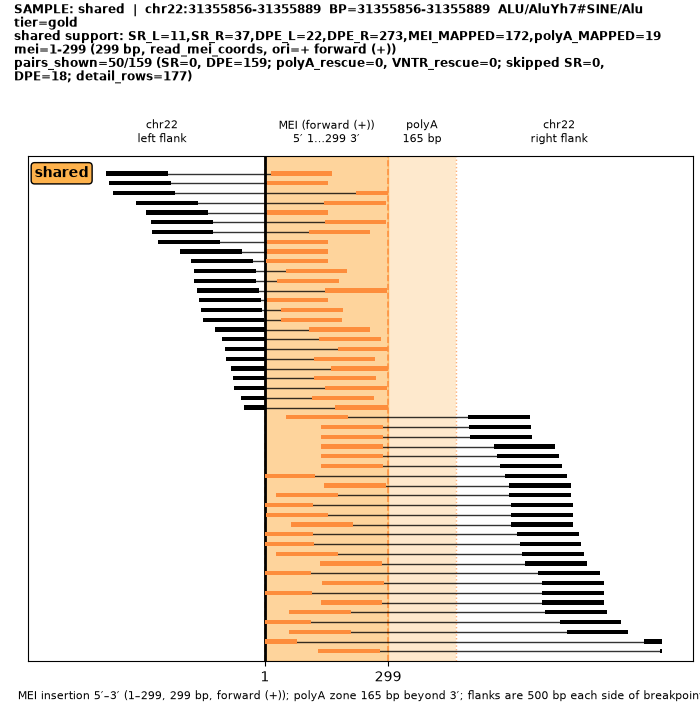
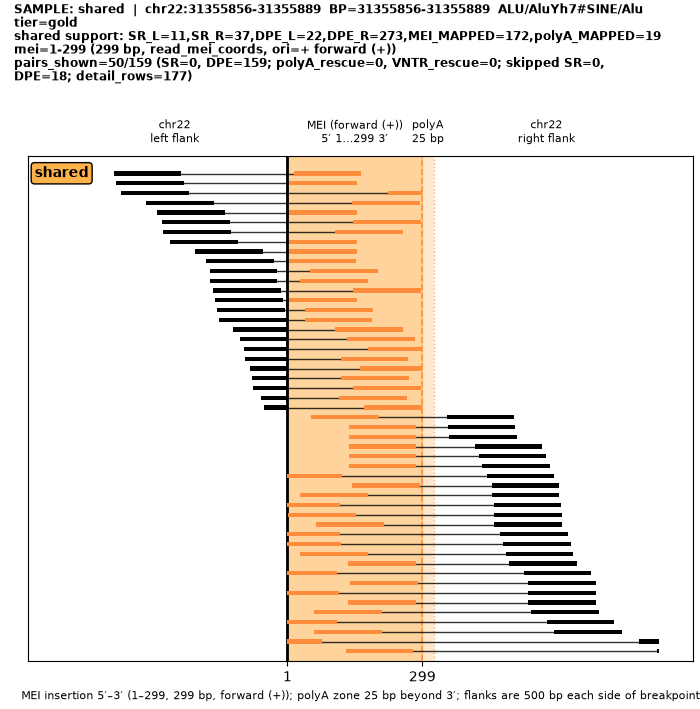
Fix read-architecture polyA zones inflated by raw mate_seq_len.
Only count purity-checked or polyA-rescue mate widths (and gold
consensus_poly_at_min_bp), and refresh the README L1/SVA/Alu example plots.

diff --git a/src/retro_miner/read_architecture.py b/src/retro_miner/read_architecture.py
@@ -330,11 +330,61 @@ def _mei_coords_from_detail(
     return min(coords), max(coords)
 
 
-def _max_polya_zone_bp(detail: pd.DataFrame | None) -> int:
+def _mate_polya_width_bp(row: pd.Series) -> int:
+    """Observed polyA/T width for a mate — never raw mate_seq_len alone.
+
+    Prefer purity-checked ``mate_seq``, then imputed polyA rescue spans.
+    ``mate_seq_len`` is only a fallback when the row is explicitly a polyA
+    rescue (annotate already required a mostly-A/T mate).
+    """
+    mate_seq = str(row.get("mate_seq", "") or "")
+    if len(mate_seq) >= 12:
+        s = mate_seq.upper()
+        n_a = s.count("A")
+        n_t = s.count("T")
+        dom = max(n_a, n_t)
+        if dom / float(len(s)) >= 0.90:
+            return int(min(_MAX_POLYA_SINGLE_BP, len(s)))
+    for start_col, end_col in (("mate_mei_start", "mate_mei_end"), ("mei_start", "mei_end")):
+        if start_col not in row.index or end_col not in row.index:
+            continue
+        try:
+            start = int(float(row.get(start_col) or 0))
+            end = int(float(row.get(end_col) or 0))
+        except (TypeError, ValueError):
+            continue
+        if start > 0 and end >= start:
+            # Only trust synthetic/imputed spans on polyA-rescue rows.
+            is_rescue = bool(row.get("polya_rescue", False)) or str(
+                row.get("mei_hit_source", "") or ""
+            ).strip().lower() in {"polya_rescue", "poly_tail_rescue"}
+            if is_rescue:
+                return int(max(0, min(_MAX_POLYA_SINGLE_BP, end - start + 1)))
+    is_rescue = bool(row.get("polya_rescue", False)) or str(
+        row.get("mei_hit_source", "") or ""
+    ).strip().lower() in {"polya_rescue", "poly_tail_rescue"}
+    if is_rescue and "mate_seq_len" in row.index:
+        try:
+            n = int(float(row.get("mate_seq_len") or 0))
+        except (TypeError, ValueError):
+            n = 0
+        if n >= 12:
+            return int(min(_MAX_POLYA_SINGLE_BP, n))
+    return 0
+
+
+def _max_polya_zone_bp(
+    detail: pd.DataFrame | None,
+    *,
+    consensus_poly_at_min_bp: int = 0,
+) -> int:
     """Width of the dedicated polyA zone = longest observed polyA/T support."""
-    if detail is None or detail.empty:
-        return 0
     widths: list[int] = []
+    gold = int(consensus_poly_at_min_bp or 0)
+    if gold >= 8:
+        widths.append(gold)
+    if detail is None or detail.empty:
+        return int(max(0, min(_MAX_POLYA_COMBINED_BP, max(widths)))) if widths else 0
 
     def _add_span_widths(frame: pd.DataFrame) -> None:
         for start_col, end_col in (("mate_mei_start", "mate_mei_end"), ("mei_start", "mei_end")):
@@ -349,17 +399,17 @@ def _max_polya_zone_bp(detail: pd.DataFrame | None) -> int:
     if "polya_rescue" in detail.columns:
         resc = detail.loc[detail["polya_rescue"].fillna(False).astype(bool)]
         if not resc.empty:
-            if "mate_seq_len" in resc.columns:
-                lens = pd.to_numeric(resc["mate_seq_len"], errors="coerce").fillna(0).astype(int)
-                widths.extend(int(v) for v in lens.tolist() if int(v) >= 12)
+            # Use imputed polyA spans / purity-checked mate width — not raw mate_seq_len
+            # on non-rescue MEI mates (that inflated zones to ~clip+151).
+            widths.extend(int(v) for v in resc.apply(_mate_polya_width_bp, axis=1).tolist() if int(v) >= 12)
             _add_span_widths(resc)
     if "mei_hit_source" in detail.columns:
         src = detail["mei_hit_source"].fillna("").astype(str)
         poly_src = detail.loc[src.eq("polya_rescue")]
         if not poly_src.empty:
-            if "mate_seq_len" in poly_src.columns:
-                lens = pd.to_numeric(poly_src["mate_seq_len"], errors="coerce").fillna(0).astype(int)
-                widths.extend(int(v) for v in lens.tolist() if int(v) >= 12)
+            widths.extend(
+                int(v) for v in poly_src.apply(_mate_polya_width_bp, axis=1).tolist() if int(v) >= 12
+            )
             _add_span_widths(poly_src)
     if "polya_base" in detail.columns:
         poly_base = detail.loc[detail["polya_base"].fillna("").astype(str).isin({"A", "T", "a", "t"})]
@@ -367,9 +417,9 @@ def _max_polya_zone_bp(detail: pd.DataFrame | None) -> int:
             if "clip_len" in poly_base.columns:
                 cl = pd.to_numeric(poly_base["clip_len"], errors="coerce").fillna(0).astype(int)
                 widths.extend(int(v) for v in cl.tolist() if int(v) >= 12)
-            if "mate_seq_len" in poly_base.columns:
-                lens = pd.to_numeric(poly_base["mate_seq_len"], errors="coerce").fillna(0).astype(int)
-                widths.extend(int(v) for v in lens.tolist() if int(v) >= 12)
+            widths.extend(
+                int(v) for v in poly_base.apply(_mate_polya_width_bp, axis=1).tolist() if int(v) >= 12
+            )
     if "poly_tail_rescued" in detail.columns:
         rescued = detail.loc[detail["poly_tail_rescued"].fillna(False).astype(bool)]
         if not rescued.empty and "clip_len" in rescued.columns:
@@ -390,23 +440,23 @@ def _max_polya_zone_bp(detail: pd.DataFrame | None) -> int:
         if "soft_clip_len" in anc.columns:
             cl = pd.to_numeric(anc["soft_clip_len"], errors="coerce").fillna(0).astype(int)
             widths.extend(int(v) for v in cl.tolist() if int(v) >= 8)
-        # Same DPE: junction polyA clip + polyA mate → minimum tail ≈ sum.
-        if "mate_seq_len" in anc.columns:
-            mate_lens = pd.to_numeric(anc["mate_seq_len"], errors="coerce").fillna(0).astype(int)
-            clip_lens = (
-                pd.to_numeric(anc["soft_clip_len"], errors="coerce").fillna(0).astype(int)
-                if "soft_clip_len" in anc.columns
-                else pd.Series(0, index=anc.index)
-            )
-            run_lens = (
-                pd.to_numeric(anc["anchor_poly_at_run"], errors="coerce").fillna(0).astype(int)
-                if "anchor_poly_at_run" in anc.columns
-                else pd.Series(0, index=anc.index)
-            )
-            anchor_w = clip_lens.combine(run_lens, max)
-            for aw, mw in zip(anchor_w.tolist(), mate_lens.tolist()):
-                if int(aw) >= 8 and int(mw) >= 12:
-                    widths.append(int(aw) + int(mw))
+        # Same DPE: junction polyA clip + polyA mate → sum only when mate is
+        # actually polyA (rescue / purity), never raw mate_seq_len of MEI mates.
+        clip_lens = (
+            pd.to_numeric(anc["soft_clip_len"], errors="coerce").fillna(0).astype(int)
+            if "soft_clip_len" in anc.columns
+            else pd.Series(0, index=anc.index)
+        )
+        run_lens = (
+            pd.to_numeric(anc["anchor_poly_at_run"], errors="coerce").fillna(0).astype(int)
+            if "anchor_poly_at_run" in anc.columns
+            else pd.Series(0, index=anc.index)
+        )
+        anchor_w = clip_lens.combine(run_lens, max)
+        mate_w = anc.apply(_mate_polya_width_bp, axis=1)
+        for aw, mw in zip(anchor_w.tolist(), mate_w.tolist()):
+            if int(aw) >= 8 and int(mw) >= 12:
+                widths.append(int(aw) + int(mw))
     if not widths:
         return 0
     return int(max(12, min(_MAX_POLYA_COMBINED_BP, max(widths))))
@@ -703,7 +753,12 @@ def _layout_from_row(
         window_start=ws,
         window_end=we,
     )
-    polya_zone_bp = _max_polya_zone_bp(detail)
+    gold_poly = 0
+    try:
+        gold_poly = int(float(row.get("consensus_poly_at_min_bp", 0) or 0))
+    except (TypeError, ValueError):
+        gold_poly = 0
+    polya_zone_bp = _max_polya_zone_bp(detail, consensus_poly_at_min_bp=gold_poly)
     return LocusLayout(
         chrom=chrom,
         window_start=ws,
@@ -1007,34 +1062,32 @@ def _draw_polya_label(
 
 
 def _polya_tail_width_from_rec(rec, *, default: int = 0) -> int:
-    """Width of a polyA-rescue bar from mate length or sequence (0 if unknown)."""
-    for col in ("mate_seq_len", "polya_width"):
-        val = getattr(rec, col, None)
+    """Width of a polyA-rescue bar from purity-checked mate / imputed span."""
+    if isinstance(rec, pd.Series):
+        w = _mate_polya_width_bp(rec)
+        if w >= 12:
+            return int(w)
+    else:
+        # namedtuple / row-like from itertuples
+        row = {
+            "mate_seq": getattr(rec, "mate_seq", ""),
+            "mate_seq_len": getattr(rec, "mate_seq_len", 0),
+            "mate_mei_start": getattr(rec, "mate_mei_start", 0),
+            "mate_mei_end": getattr(rec, "mate_mei_end", 0),
+            "mei_start": getattr(rec, "mei_start", 0),
+            "mei_end": getattr(rec, "mei_end", 0),
+            "polya_rescue": getattr(rec, "polya_rescue", False),
+            "mei_hit_source": getattr(rec, "mei_hit_source", ""),
+        }
+        w = _mate_polya_width_bp(pd.Series(row))
+        if w >= 12:
+            return int(w)
         try:
-            n = int(float(val)) if val is not None and not (isinstance(val, float) and pd.isna(val)) else 0
+            pw = int(float(getattr(rec, "polya_width", 0) or 0))
         except (TypeError, ValueError):
-            n = 0
-        if n >= 12:
-            return int(min(_MAX_POLYA_SINGLE_BP, n))
-    mate_seq = str(getattr(rec, "mate_seq", "") or "")
-    if len(mate_seq) >= 12:
-        # Prefer full mate length for near-pure tails.
-        s = mate_seq.upper()
-        n_a = s.count("A")
-        n_t = s.count("T")
-        dom = max(n_a, n_t)
-        # Dominant base / length (mostly A *or* mostly T), not A+T.
-        dom_frac = dom / float(len(s)) if s else 0.0
-        if dom_frac >= 0.90:
-            return int(min(_MAX_POLYA_SINGLE_BP, len(s)))
-    for start_col, end_col in (
-        ("mate_mei_start", "mate_mei_end"),
-        ("mei_start", "mei_end"),
-    ):
-        start = int(getattr(rec, start_col, 0) or 0)
-        end = int(getattr(rec, end_col, 0) or 0)
-        if start > 0 and end >= start:
-            return int(max(12, min(_MAX_POLYA_SINGLE_BP, end - start + 1)))
+            pw = 0
+        if pw >= 12:
+            return int(min(_MAX_POLYA_SINGLE_BP, pw))
     return int(default)
 
 
